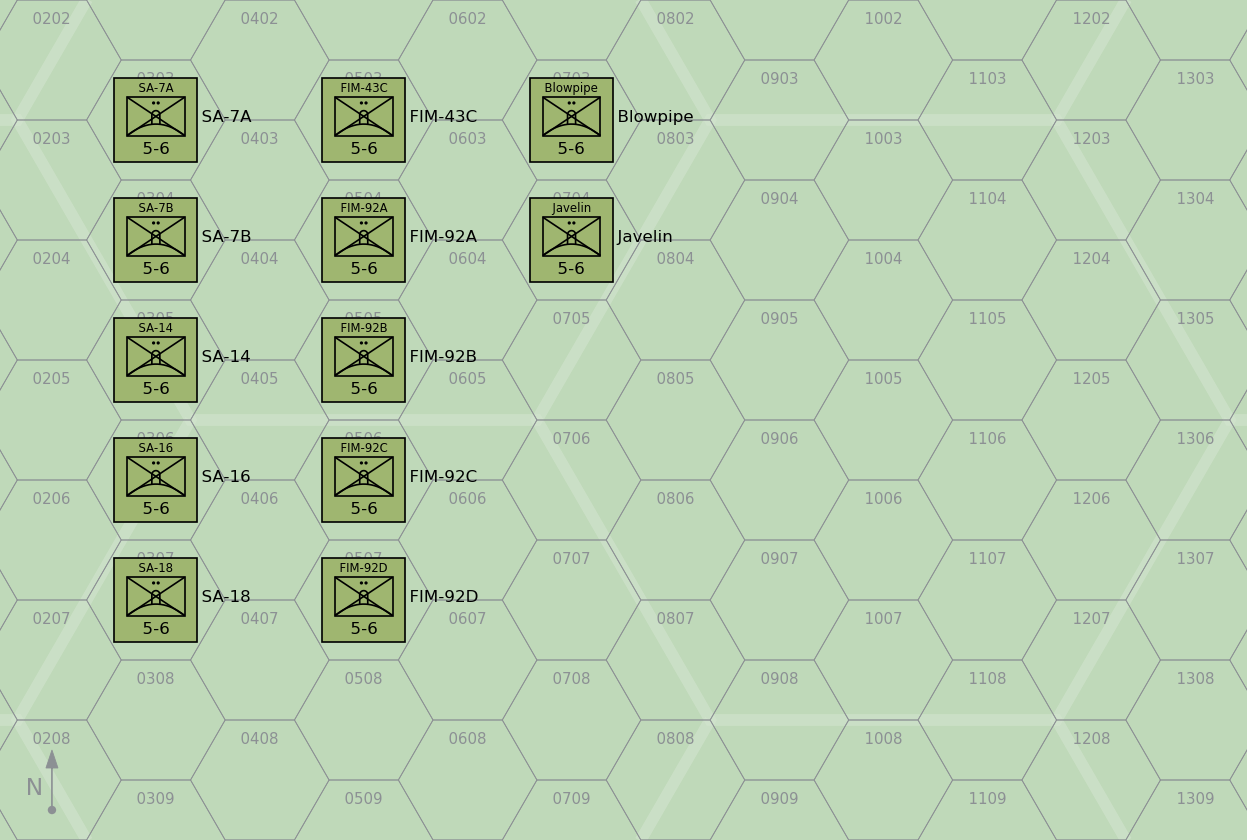
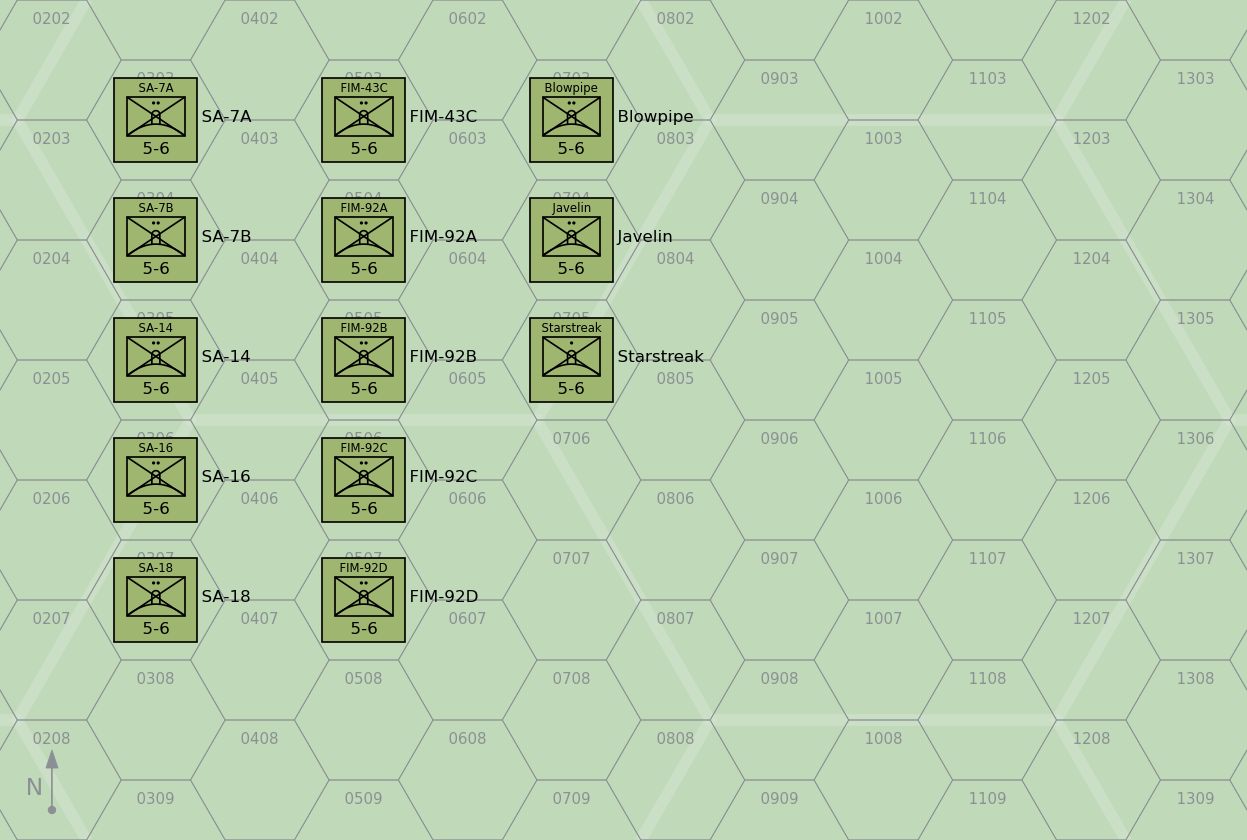
Add Starstreak

Changed region(s): [[0.4266, 0.3714, 0.579, 0.4952]]

diff --git a/groundunitdatatables/groundunitdata.tex b/groundunitdatatables/groundunitdata.tex
@@ -554,10 +554,10 @@ The FIM-92A entered service with the US Army in 1981, the FIM-92B in 1986, the F
 
 \subsubsection{Blowpipe Squad or Section}
 
-The Blowpipe is an MCLOS optically-guided missile.
+Blowpipe is an MCLOS optically-guided missile.
 While in theory this gave it an all-aspect capability, in practice guiding the missile to the target in combat proved to be very difficult.
 
-The Blowpipe entered service with the British Army and Royal Marines in 1975.
+Blowpipe entered service with the British Army and Royal Marines in 1975.
 It was also used by the Argentine Army, Canadian Army, Chilean Army and Navy, Ecuadorean Army, Guatemalan Army, Portuguese Army, Malawian Army, Malaysian Army, Nigerian Army, Omani Army, Royal Thai Air Force and Army, and the UAE Army.
 It saw combat in the 1982 South Atlantic War with both sides and had a low success rate.
 In 1986, it was trialed by the Afghan Mujahedeen, but again was not considered to be effective.
@@ -565,11 +565,19 @@ Finally, it was also used in the 1995 Cenepa War by Ecuador.
 
 \subsubsection{Javelin Squad or Section}
 
-The Javelin is an upgraded version of the Blowpipe with the MCLOS optical guidance replaced by SACLOS guidance.
+Given the poor performance of Blowpipe in the 1982 South Atlantic War, Javelin was quickly developed as an upgraded version of Blowpipe with SACLOS guidance in place of MCLOS guidance.
 
-The Javelin entered service with the British Army and Royal Marines in 1984, replacing Blowpipe.
+Javelin replaced Blowpipe in 1884 with the British Army and Royal Marines in 1984.
 It was also used by the Botswana Army, the Canadian Army, the Malaysian Army, the Peruvian Army, and the South Korean Army.
-Javelin served with the British Army in the 1991 Gulf War, but was not used in combat.
+It served with the British Army in the 1991 Gulf War, but was not used in combat.
+
+\subsubsection{Starstreak Squad or Section}
+
+Starstreak is high-speed laser-guided missile.
+
+Starstreak entered service with the British Army and Royal Marines in 1997, replacing Javelin.
+It was also used by the South African Army, the Royal Thai Army, the Indonesian Army, the Malaysian Armed Forces, and the Armed Forces of Ukraine.
+Starstreak served with the British Army in the 2003 Invasion of Iraq, but was not used in combat. It has seen combat in the Russian Invasion of Ukraine.
 
 \subsection{Vehicular and Towed SAM Units}
 

diff --git a/groundunitdatatables/table-infantry-sam-units.tex b/groundunitdatatables/table-infantry-sam-units.tex
@@ -78,5 +78,8 @@ Blowpipe &\wbox[l]{Section}{Squad}&1975&\wbox[l]{0}{5}&\wbox{00}{6}&U&\wbox{00/0
 Javelin &\wbox[l]{Section}{Section}&1984&\wbox[l]{0}{5}&\wbox{00}{6}&U&\wbox{00/00/00}{\wbox[c]{0}{--}/16/8}&Javelin&\wbox{0}{2}&\wbox{0}{2}&\wbox{0}{4}&2&Y&Y&---&7&\wbox{00}{9}&\\
 Javelin &\wbox[l]{Section}{Squad}&1984&\wbox[l]{0}{5}&\wbox{00}{6}&U&\wbox{00/00/00}{\wbox[c]{0}{--}/\wbox[c]{0}{--}/8}&Javelin&\wbox{0}{1}&\wbox{0}{1}&\wbox{0}{2}&---&Y&Y&---&7&\wbox{00}{9}&\\
 \addlinespace
+Starstreak &\wbox[l]{Section}{Squad}&1997&\wbox[l]{0}{5}&\wbox{00}{6}&U&\wbox{00/00/00}{\wbox[c]{0}{--}/0/0}&Starstreak&\wbox{0}{2}&\wbox{0}{2}&\wbox{0}{4}&2&Y&Y&---&7&\wbox{00}{12}&\\
+Starstreak &\wbox[l]{Section}{Squad}&1997&\wbox[l]{0}{5}&\wbox{00}{6}&U&\wbox{00/00/00}{\wbox[c]{0}{--}/\wbox[c]{0}{--}/0}&Starstreak&\wbox{0}{1}&\wbox{0}{1}&\wbox{0}{2}&---&Y&Y&---&7&\wbox{00}{12}&\\
+\addlinespace
 \bottomrule
 \end{tabular}

diff --git a/groundunitdatatables/table-sams.tex b/groundunitdatatables/table-sams.tex
@@ -70,6 +70,8 @@ FIM-92D&1992&\wbox[c]{TVM}{A}&8&BT/2&1&\wbox{00}{2}&---&---&1&---&---&Y&\wbox{00
 Blowpipe&1975&\wbox[c]{TVM}{OG}&8&HT&1&\wbox{00}{6}&---&3&0&---&---&---&\wbox{00}{---}&\wbox{00}{8}&0&T&3&7&\wbox{00}{6}&5&\\
 Javelin&1984&\wbox[c]{TVM}{OG}&8&ET&1&\wbox{00}{5}&---&2&0&---&---&Y&\wbox{00}{---}&\wbox{00}{10}&0&T&5&8&\wbox{00}{6}&5&\\
 \addlinespace
+Starstreak&1997&\wbox[c]{TVM}{LG}&8&ET&1&\wbox{00}{5}&---&1&0&---&---&Y&\wbox{00}{---}&\wbox{00}{24}&0&T&7&9&\wbox{00}{6}&4&\\
+\addlinespace
 \midrule
 \addlinespace
 SA-2B&1957&\wbox[c]{TVM}{CG}&8&ET&5&\wbox{00}{10}&0&5&---&---&---&---&\wbox{00}{15}&\wbox{00}{18}&2&2&2&7&\wbox{00}{10}&5&V-750VK/VN (Guideline)\\
